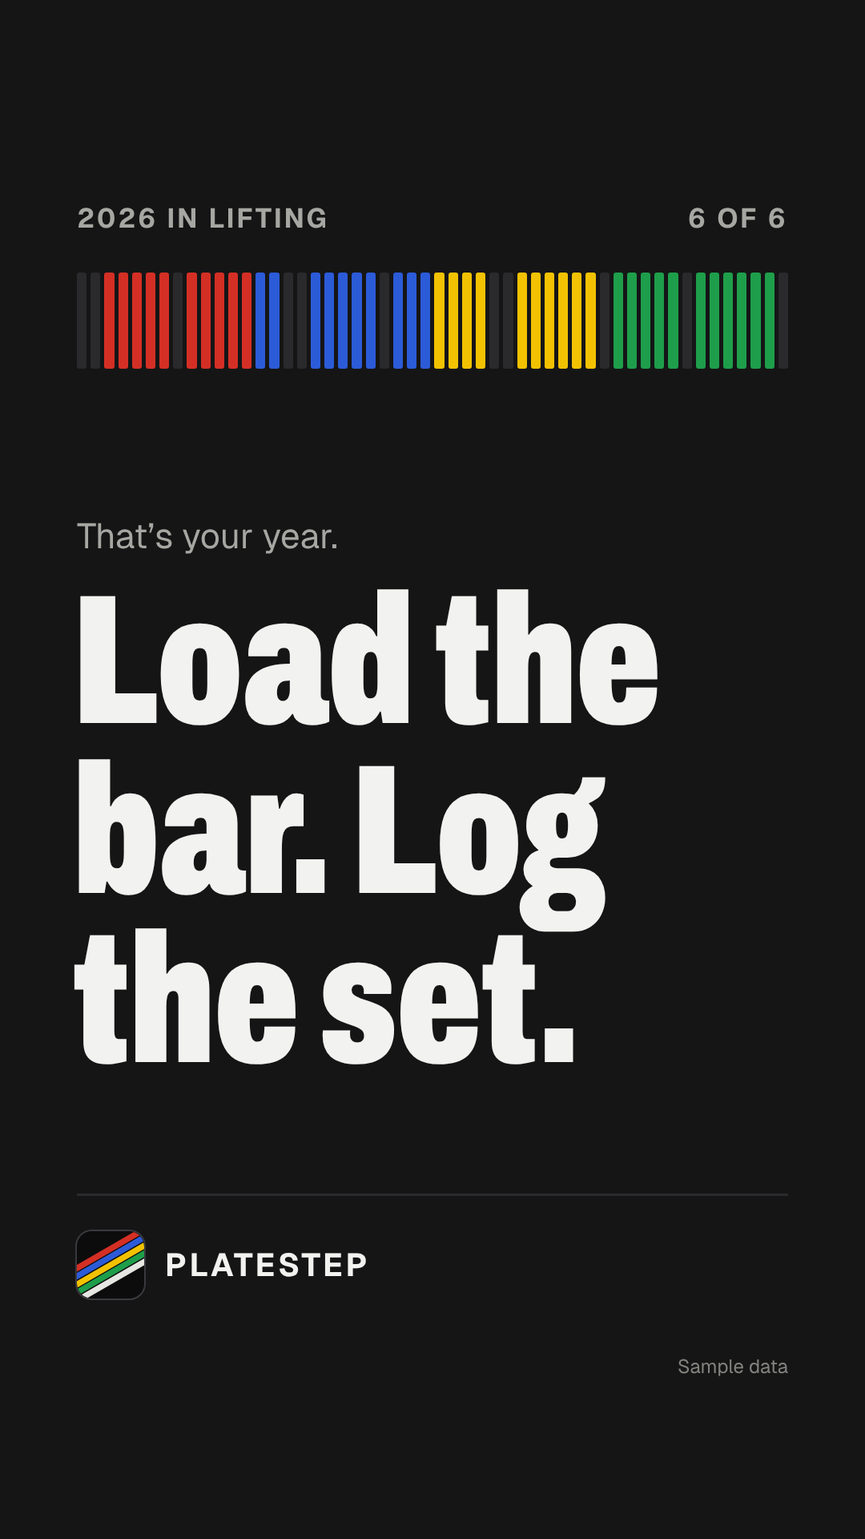
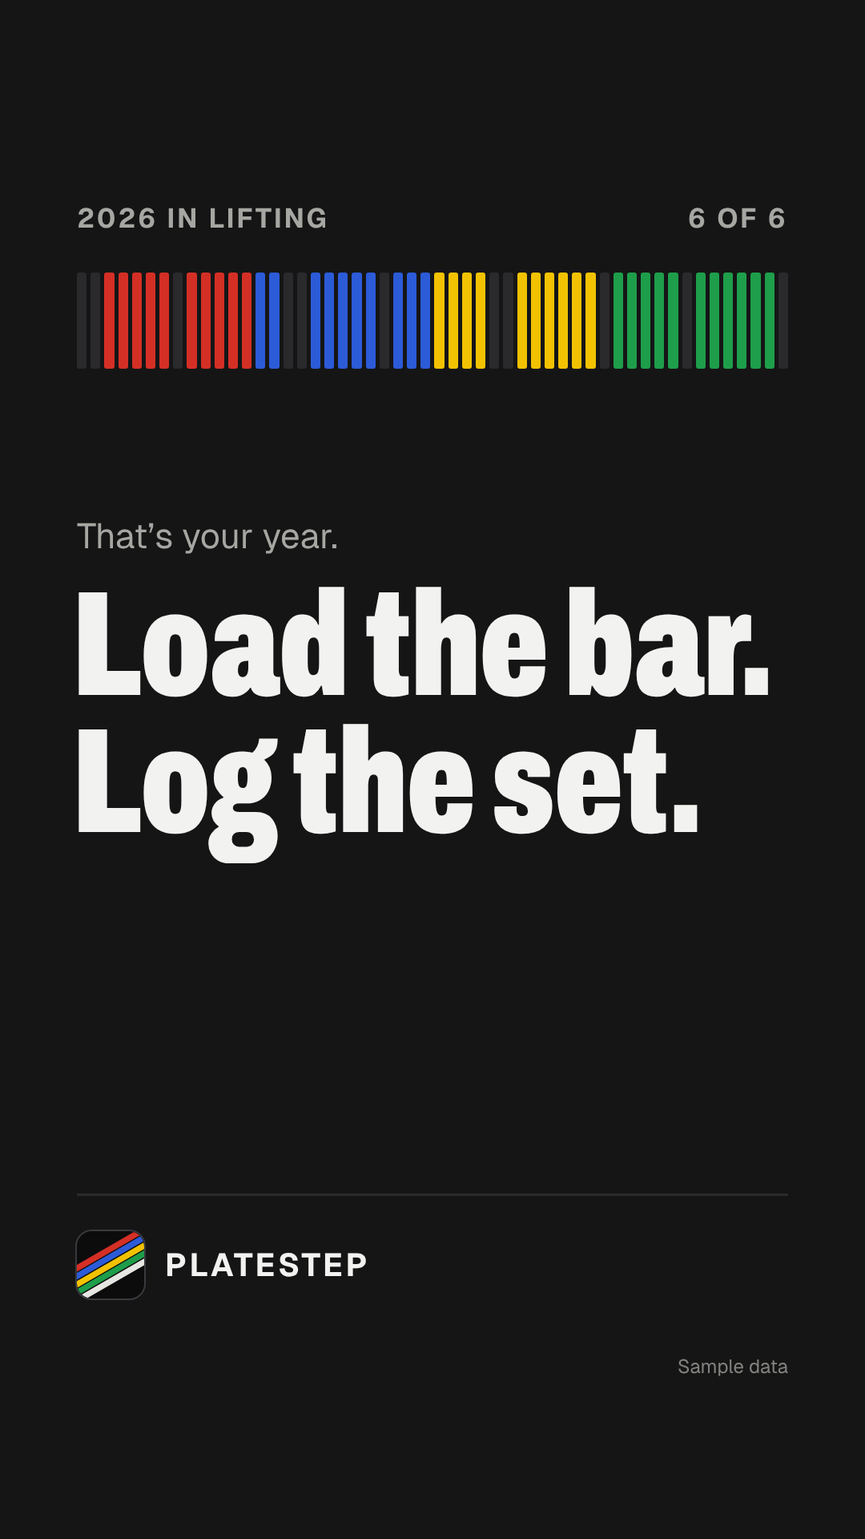
Planning: slogan round 2, Plate + Step lines (planning/slogan.md §9)
Screens 17 name-built lines (web and trademark search, iTunes Search API,
echoes, fit) and scores each from a brand-and-growth angle and a
social-and-content angle. Recommends "Plate by plate, step by step." with
"Earn the next plate, step by step." as runner-up; #PlateByPlate as the
hashtag. Round-2 mock-ups (r2-*.png) via render.js 2. Docs and dev tooling
only; no app code changes.

Claude-Session: https://claude.ai/code/session_012YZbMm45kyEePSqKXaJzSN

Changed region(s): [[0.0611, 0.375, 0.8861, 0.7188]]

diff --git a/tools/design/slogan/render.js b/tools/design/slogan/render.js
@@ -3,19 +3,32 @@
 // end card, social profile header) for each of the three shortlisted slogans, a contact sheet of all nine, and a
 // fit table for every candidate: its width as tracked caps on the bib's event band (Geist 700, 31 px, .09em, the
 // c-card band style) and its line count at the end card's 230 px Archivo condensed size.
-// Run: node tools/design/slogan/render.js
+// Run: node tools/design/slogan/render.js      (round 1: renders/*.png, fit.json, contact-sheet.png)
+//      node tools/design/slogan/render.js 2    (round 2, the Plate + Step lines: renders/r2-*.png, r2-fit.json,
+//                                               r2-contact-sheet.png)
 const fs = require('fs');
 const path = require('path');
 const { chromium } = require('playwright');
 
 const D = __dirname, R = path.join(D, 'renders');
-const CANDIDATES = [
+const ROUND = process.argv[2] === '2' ? 2 : 1;
+const PRE = ROUND === 2 ? 'r2-' : '';
+const CANDIDATES_R2 = [
+  'One step to the next plate.', 'The next plate is one step away.', 'Step up to the next plate.',
+  'One step closer to the next plate.', 'Step up a plate.', 'One step. One plate.', 'Small steps. Heavy plates.',
+  'Step by step. Plate by plate.', 'Every step adds a plate.', 'Every rep a step. Every step a plate.', 'Stack the steps.',
+  'Your next step, already planned.', 'We’ll plan the steps. You lift the plates.',
+  'Step by step to the next plate.', 'Next step: the next plate.', 'Plate by plate, step by step.',
+  'Earn the next plate, step by step.',
+];
+const CANDIDATES_R1 = [
   'Know what to lift next.', 'Your next set, already planned.', 'The plan and the log, in one.', 'Every set has a target.',
   'A plan for every lifter.', 'Every lifter deserves a plan.', 'Lift with a plan.', 'Learn the lift. Log the work.',
   'Earn the next plate.', 'One plate at a time.', 'Every plate, earned.', 'Stronger, one plate at a time.',
   'Load the bar. Log the set.', 'Less guessing. More lifting.', 'Rack it. Log it.', 'Just lift. We’ll do the math.',
   'Plate by plate.', 'Next plate, please.', 'Lift. Tap. Next.', 'Show up. We’ll do the math.',
 ];
+const CANDIDATES = ROUND === 2 ? CANDIDATES_R2 : CANDIDATES_R1;
 const SHOTS = [
   ['hero.html', 'hero', { width: 1280, height: 800 }, 1],
   ['year-end.html', 'year-end', { width: 1080, height: 1920 }, 1],
@@ -28,11 +41,11 @@ const SHOTS = [
   for (const [file, out, viewport, dpr] of SHOTS) for (const s of [1, 2, 3]) {
     const ctx = await browser.newContext({ viewport, deviceScaleFactor: dpr, colorScheme: 'dark' });
     const page = await ctx.newPage();
-    await page.goto('file://' + path.join(D, file) + '?s=' + s);
+    await page.goto('file://' + path.join(D, file) + '?r=' + ROUND + '&s=' + s);
     await page.evaluate(() => document.fonts.ready);
     const fonts = await page.evaluate(() => [...new Set([...document.fonts].filter(f => f.status === 'loaded').map(f => f.family))].join(', '));
-    await page.screenshot({ path: path.join(R, `${out}-${s}.png`) });
-    console.log(`renders/${out}-${s}.png fonts: ${fonts || 'NONE'}`);
+    await page.screenshot({ path: path.join(R, `${PRE}${out}-${s}.png`) });
+    console.log(`renders/${PRE}${out}-${s}.png fonts: ${fonts || 'NONE'}`);
     await ctx.close();
   }
 
@@ -55,23 +68,25 @@ const SHOTS = [
     band.remove(); end.remove();
     return r;
   }), CANDIDATES);
-  fs.writeFileSync(path.join(R, 'fit.json'), JSON.stringify(fit, null, 2) + '\n');
-  for (const f of fit) console.log(`${f.slogan.padEnd(34)} chars ${String(f.chars).padStart(2)}  band ${String(f.bandPx).padStart(4)}px ${f.bandPx <= 734 ? 'fits' : 'OVER'}  end-card lines ${f.endLines}`);
+  fs.writeFileSync(path.join(R, PRE + 'fit.json'), JSON.stringify(fit, null, 2) + '\n');
+  for (const f of fit) console.log(`${f.slogan.padEnd(44)} chars ${String(f.chars).padStart(2)}  band ${String(f.bandPx).padStart(4)}px ${f.bandPx <= 734 ? 'fits' : 'OVER'}  end-card lines ${f.endLines}`);
   await ctx.close();
 
   // Contact sheet: one column per slogan; hero on top, end card and profile below.
-  const col = (s, name) => `<div class="c"><p>${s}. ${name}</p><img class="h" src="hero-${s}.png">`
-    + `<div class="r"><img class="y" src="year-end-${s}.png"><img class="p" src="profile-${s}.png"></div></div>`;
-  const names = ['Earn the next plate.', 'A plan for every lifter.', 'Load the bar. Log the set.'];
-  fs.writeFileSync(path.join(R, 'contact.html'), `<!doctype html><meta charset="utf-8"><style>
+  const col = (s, name) => `<div class="c"><p>${s}. ${name}</p><img class="h" src="${PRE}hero-${s}.png">`
+    + `<div class="r"><img class="y" src="${PRE}year-end-${s}.png"><img class="p" src="${PRE}profile-${s}.png"></div></div>`;
+  const names = ROUND === 2
+    ? ['Plate by plate, step by step.', 'Earn the next plate, step by step.', 'One step to the next plate.']
+    : ['Earn the next plate.', 'A plan for every lifter.', 'Load the bar. Log the set.'];
+  fs.writeFileSync(path.join(R, PRE + 'contact.html'), `<!doctype html><meta charset="utf-8"><style>
     body{margin:0; background:#2A2A2D; font:600 22px system-ui,sans-serif; color:#F2F2F0; display:flex; gap:28px; padding:28px; width:max-content;}
     .c p{margin:0 0 12px} .h{width:600px; display:block} .r{display:flex; gap:20px; margin-top:20px; justify-content:center}
     .y{height:470px} .p{height:470px}</style>${names.map((n, i) => col(i + 1, n)).join('')}`);
   const sheet = await browser.newContext({ viewport: { width: 1960, height: 900 } });
   const sp = await sheet.newPage();
-  await sp.goto('file://' + path.join(R, 'contact.html'));
+  await sp.goto('file://' + path.join(R, PRE + 'contact.html'));
   await sp.waitForLoadState('load');
-  await sp.screenshot({ path: path.join(R, 'contact-sheet.png'), fullPage: true });
-  console.log('renders/contact-sheet.png');
+  await sp.screenshot({ path: path.join(R, PRE + 'contact-sheet.png'), fullPage: true });
+  console.log(`renders/${PRE}contact-sheet.png`);
   await browser.close();
 })();

diff --git a/tools/design/slogan/slogans.js b/tools/design/slogan/slogans.js
@@ -1,6 +1,12 @@
-// The three slogans the mock-ups compare (planning/slogan.md §3). ?s=1|2|3 picks one; the Sash tile is the v3.516 mark.
-window.SLOGANS = ['Earn the next plate.', 'A plan for every lifter.', 'Load the bar. Log the set.'];
-window.SLOGAN = window.SLOGANS[(Number(new URLSearchParams(location.search).get('s')) || 1) - 1];
+// The slogans the mock-ups compare (planning/slogan.md §3 for round 1, §9 for round 2). ?r=1|2 picks the round
+// (default 1), ?s=1|2|3 the slogan; the Sash tile is the v3.516 mark.
+window.ROUNDS = {
+  1: ['Earn the next plate.', 'A plan for every lifter.', 'Load the bar. Log the set.'],
+  2: ['Plate by plate, step by step.', 'Earn the next plate, step by step.', 'One step to the next plate.'],
+};
+{ const q = new URLSearchParams(location.search);
+  window.SLOGANS = window.ROUNDS[q.get('r') === '2' ? 2 : 1];
+  window.SLOGAN = window.SLOGANS[(Number(q.get('s')) || 1) - 1]; }
 window.SASH = '<svg class="sash" viewBox="0 0 24 24" aria-hidden="true"><defs><clipPath id="st"><rect width="24" height="24" rx="5.4"/></clipPath></defs>'
   + '<g clip-path="url(#st)"><rect width="24" height="24" fill="#0C0C0D"/><g transform="rotate(-30 12 12)">'
   + '<rect x="-10" y="6" width="44" height="2.1" fill="#D42F25"/><rect x="-10" y="8.5" width="44" height="2.1" fill="#2C5BD8"/>'

diff --git a/tools/design/slogan/hero.html b/tools/design/slogan/hero.html
@@ -5,6 +5,7 @@
 <title>Slogan mock-up: landing hero (1280×800)</title>
 <link rel="stylesheet" href="slogan.css">
 <script src="slogans.js"></script>
+<script>document.addEventListener('DOMContentLoaded', () => { if (window.SLOGAN.length > 24) document.querySelector('h1').classList.add('long'); });</script>
 <!-- planning/slogan.md §5 mock-up 1. The landing page hero (store/landing-page.md §2.1) with the slogan as the H1 and
      the promise as the sub, so the page still says "what to lift next" in words a search engine reads (the <title>
      and meta description keep it too). Day 1 plate ink behind the phone, near-black page. Sample data only. -->
@@ -15,6 +16,7 @@
   .eyebrow{display:flex; align-items:center; gap:14px; font-size:22px; font-weight:600;}
   .eyebrow .sash{width:40px; height:40px; box-shadow:0 0 0 1.5px #3A3A3E;}
   h1{font-size:132px; margin-top:44px; max-width:640px;}
+  h1.long{font-size:104px;}
   .sub{font-size:22px; line-height:1.45; color:var(--text-2); margin-top:30px; max-width:560px;}
   .sub b{color:var(--text); font-weight:600;}
   .facts{font-size:16px; color:var(--text-3); margin-top:20px; letter-spacing:.01em;}

diff --git a/tools/design/slogan/renders/r2-contact.html b/tools/design/slogan/renders/r2-contact.html
@@ -1,0 +1,4 @@
+<!doctype html><meta charset="utf-8"><style>
+    body{margin:0; background:#2A2A2D; font:600 22px system-ui,sans-serif; color:#F2F2F0; display:flex; gap:28px; padding:28px; width:max-content;}
+    .c p{margin:0 0 12px} .h{width:600px; display:block} .r{display:flex; gap:20px; margin-top:20px; justify-content:center}
+    .y{height:470px} .p{height:470px}</style><div class="c"><p>1. Plate by plate, step by step.</p><img class="h" src="r2-hero-1.png"><div class="r"><img class="y" src="r2-year-end-1.png"><img class="p" src="r2-profile-1.png"></div></div><div class="c"><p>2. Earn the next plate, step by step.</p><img class="h" src="r2-hero-2.png"><div class="r"><img class="y" src="r2-year-end-2.png"><img class="p" src="r2-profile-2.png"></div></div><div class="c"><p>3. One step to the next plate.</p><img class="h" src="r2-hero-3.png"><div class="r"><img class="y" src="r2-year-end-3.png"><img class="p" src="r2-profile-3.png"></div></div>

diff --git a/tools/design/slogan/year-end.html b/tools/design/slogan/year-end.html
@@ -30,6 +30,11 @@
 <div class="foot"><span data-sash></span><b>PLATESTEP</b></div>
 <p class="sample">Sample data</p>
 <script>
+  // Longer round-2 lines step the size down so the slogan stays within four lines above the foot rule.
+  document.addEventListener('DOMContentLoaded', () => {
+    const el = document.querySelector('.slogan');
+    if (window.SLOGAN.length > 24) el.style.fontSize = window.SLOGAN.length > 30 ? '168px' : '186px';
+  });
   // Sample year: 41 of 52 weeks trained, coloured by a repeating plate-ink rotation (the data hue, not decoration).
   const inks = ['#D42F25', '#2C5BD8', '#F2C200', '#1E9E4A'], off = new Set([0, 1, 7, 15, 16, 22, 30, 31, 38, 44, 51]);
   document.getElementById('strip').innerHTML = Array.from({length: 52}, (_, w) =>

diff --git a/planning/slogan.md b/planning/slogan.md
@@ -4,7 +4,7 @@ Owner: marketing-manager. Written 2026-11-23 against live **v3.645** (`APP_NAME 
 
 **Nothing here is a legal clearance.** Every screen below is a web search, plus Apple's iTunes Search API for the exact phrase in app titles and descriptions (US store, 25 results). No USPTO, EUIPO or WIPO search was run. Counsel should knock out the chosen line before it's printed on anything paid for.
 
-**No backlog items yet.** The owner picks first; §7 sketches the items.
+**No backlog items yet.** The owner picks first; §7 sketches the items. **Round 2 (§9)** adds the Plate + Step lines the owner asked for and changes the recommendation to **"Plate by plate, step by step."**
 
 ---
 
@@ -214,9 +214,155 @@ What the renders show:
 
 ---
 
+## 9. Round 2: lines built on the name (Plate + Step)
+
+The owner liked round 1 but wanted a line built on the name, as in "One step to the next plate". The coordinator brainstormed 12 more; marketing added 4 (14 to 17). Each is judged from two angles, because the owner asked for the marketing manager and the social media manager to pick together, and this file covers both jobs.
+
+### 9.1 The screen (2026-11-23, same method as §2)
+
+- **Web search, exact phrase,** for all 17, with trademark aggregators in the results. **No exact-phrase use was found for any of them** in fitness branding or trademarks. The conflicts below come from the parts of each line, not the whole.
+- **iTunes Search API, exact phrase in titles and descriptions:** zero hits for all 17. The fragment "small steps" alone returned three apps: a habit tracker, a baby-footprint app and a running app.
+- **Fit**, measured with `node tools/design/slogan/render.js 2` (results in `renders/r2-fit.json`):
+  - **Subtitle:** Apple's limit is 30 characters.
+  - **Bib band:** the 734 px rule from §2 applies. The band is already full, so no line goes on the bib; only "We'll plan the steps. You lift the plates." is too wide even on its own (818 px).
+  - **End card:** line count at 230 px. The mock-up steps the size down for longer lines.
+  - **Bio:** every line fits 150 characters together with the two promise lines.
+
+**Conflicts and echoes found:**
+
+| # | Line | Conflict |
+|---|---|---|
+| 3 | Step up to the next plate. | It's the baseball idiom "step up to the plate" with one word added. That helps recall but can't be owned. "Step-up plate" is also rack hardware sold by Synergee and Powertec, and a step-up is an exercise |
+| 4 | One step closer to the next plate. | "One Step Closer" is a well-known Linkin Park song title |
+| 5 | Step up a plate. | It reads as an exercise (a step-up on a plate) or as the rack attachment, the same problem that ruled out Platerise in naming.md |
+| 7 | Small steps. Heavy plates. | "Small steps" is crowded: SMALL STEPS THAT LEAD TO BIG RESULTS (registered, no. 5065215), THE POWER OF SMALL STEPS (owned by a fitness institute, for education services), SMALL STEPS = BIG CHANGES (filed 2024, wellness coaching), and a "Small Steps" step-count app |
+| 11 | Stack the steps. | StepStack is a UK step-count app that turns steps into coins, and STEPSAPP is a step-tracking mark. "Steps" alone reads as step counts, the risk naming.md §3.1 warned about |
+| 13 | We'll plan the steps. You lift the plates. | It echoes Kodak's "You press the button, we do the rest". It's also 42 characters, too wide for the band, and twice the word target |
+| 9, 10 | Every step adds a plate. / Every rep a step. Every step a plate. | **Untrue.** Not every session adds weight: progression holds, drops the weight or suggests an easier week. This is a results claim the code contradicts |
+| 2 | The next plate is one step away. | It promises how close the next plate is. Under the progression rules it is usually two sessions or more away |
+| 8, 16 | Step by step. Plate by plate. / Plate by plate, step by step. | No conflict found. Both halves are idioms, so the line can't be registered as a mark on its own. Next to the name it is distinctive. "Plate by plate" alone could read as cooking. The searches found no cookbook or restaurant with that title, and `#platebyplate` turned up no indexed use, though the networks themselves weren't searched |
+
+### 9.2 Scores
+
+Each criterion is scored 1 to 5.
+
+**(a) Brand and growth, out of 25:**
+- **R:** does it bring the name to mind (both "plate" and "step")?
+- **O:** can we own it (clean screen, distinctive)?
+- **L:** does it read as lifting, not food or step counts?
+- **H:** is it honest, with no results claim?
+- **M:** does it fit the mission (guidance for the people who need it) and support Plus?
+
+**(b) Social and content, out of 20:**
+- **T:** does it work as a hashtag or a recurring series?
+- **B:** does it work as a bio line?
+- **C:** does it work as the caption hook on a set video?
+- **S:** is it chantable and shareable?
+
+**Top 8.** Round 1's pick is included as the benchmark; it isn't a round-2 line.
+
+| Rank | Line | Chars | R | O | L | H | M | **(a)** | T | B | C | S | **(b)** | **Total /45** |
+|---|---|---|---|---|---|---|---|---|---|---|---|---|---|---|
+| 1 | **Plate by plate, step by step.** (16, marketing) | 28 | 5 | 3 | 4 | 5 | 4 | **21** | 5 | 5 | 4 | 5 | **19** | **40** |
+| (benchmark) | Earn the next plate. (round 1) | 20 | 3 | 5 | 5 | 5 | 3 | 21 | 5 | 5 | 5 | 4 | 19 | 40 |
+| 2 | **Earn the next plate, step by step.** (17, marketing) | 33 | 5 | 4 | 5 | 5 | 4 | **23** | 4 | 4 | 5 | 3 | **16** | **39** |
+| 3 | Step by step. Plate by plate. (8) | 29 | 5 | 3 | 3 | 5 | 4 | 20 | 4 | 4 | 4 | 5 | 17 | 37 |
+| 4 | Step by step to the next plate. (14, marketing) | 30 | 5 | 4 | 4 | 5 | 4 | 22 | 3 | 4 | 4 | 3 | 14 | 36 |
+| 5 | One step to the next plate. (1, the owner's) | 26 | 5 | 4 | 4 | 3 | 4 | 20 | 3 | 5 | 4 | 3 | 15 | 35 |
+| 6 | One step. One plate. (6) | 20 | 5 | 4 | 3 | 3 | 2 | 17 | 4 | 4 | 4 | 5 | 17 | 34 |
+| 7 | We'll plan the steps. You lift the plates. (13) | 42 | 5 | 3 | 5 | 5 | 5 | 23 | 1 | 4 | 3 | 2 | 10 | 33 |
+| 8 | Step up to the next plate. (3) | 26 | 5 | 2 | 3 | 4 | 3 | 17 | 3 | 4 | 4 | 4 | 15 | 32 |
+
+Line 13 ranks 7th on its brand score, but it can't be the slogan: it's 42 characters and echoes Kodak. Use it in long copy, such as a landing-page section or a launch post.
+
+**The rest:**
+
+| Line | (a) | (b) | Total | Main reason it ranks lower |
+|---|---|---|---|---|
+| One step closer to the next plate. (4) | 20 | 11 | 31 | The Linkin Park echo; 34 characters |
+| Small steps. Heavy plates. (7) | 16 | 15 | 31 | The "small steps" marks; "heavy" hints at an outcome |
+| Step up a plate. (5) | 16 | 13 | 29 | Reads as an exercise or rack hardware |
+| The next plate is one step away. (2) | 18 | 10 | 28 | Promises how close the next plate is |
+| Every step adds a plate. (9) | 15 | 12 | 27 | Untrue in code |
+| Your next step, already planned. (12) | 17 | 9 | 26 | No plate; a generic "next step" |
+| Every rep a step. Every step a plate. (10) | 14 | 12 | 26 | Untrue; 37 characters |
+| Stack the steps. (11) | 13 | 12 | 25 | Reads as step counts; StepStack |
+| Next step: the next plate. (15, marketing) | 19 | 12 | 31 | Clear, but flat as a hashtag or chant |
+
+**About the owner's line, "One step to the next plate."** It's the clearest name line on the list and a good bio line. It scores lower only on honesty: "one step" sounds like the next plate is a session away, and the rules usually take two or more. "Step by step to the next plate." (14) keeps his idea and fixes that word.
+
+### 9.3 Recommendation
+
+**Winner: "Plate by plate, step by step."** (28 characters)
+- **(a) Brand and growth:**
+  - It says both halves of the name, plate first, as marketing.md §2.1 requires ("lead with the plate, never with step"). Anyone who hears the slogan can rebuild the name.
+  - It promises nothing about results. It describes patience, which is the honest truth about progressive overload and suits beginners who need guidance.
+  - Its weakness is ownability: two idioms can't be registered as a mark. Next to the name and the Sash it still reads as ours.
+  - The food reading of "plate by plate" disappears beside the bar, the bib and the word "step".
+  - It fits Plus without overselling it: the free app gives the steps, and Plus adds coaching notes on top.
+- **(b) Social and content:**
+  - It's the most chantable line on the list.
+  - **`#PlateByPlate`** is short and works as a series: "Plate by plate, week 3", a creator's 12-week log, or a December recap.
+  - It fits a bio in one line, and as a set-video caption it turns any increment into a story ("+5 lb. Plate by plate.").
+
+**Runner-up: "Earn the next plate, step by step."** (33 characters)
+- **(a) Brand and growth:**
+  - It scores highest on brand (23/25). It keeps round 1's honest, true-in-code rule ("earn") and adds the name.
+  - Of the strong lines it is the clearest about lifting: "earn the next plate" can only mean the bar.
+- **(b) Social and content:**
+  - It's weaker, because it's long: 33 characters, five lines on the end card at full size, and a hashtag that's too long to chant.
+  - It is the best caption hook for the moment the app says "add weight next time".
+- **How to use it:** keep `#EarnTheNextPlate` as the caption sign-off for exactly those progression posts, alongside the main hashtag.
+
+**Placement is unchanged from §4.** Only the line changes. The store subtitle stays "Tells you what to lift next". The winner and runner-up are both too long to replace the subtitle well anyway (28 characters fits Apple's 30 but carries no search word).
+
+**Social bio (Instagram, Threads, X; 145 of 150 characters):**
+
+```
+Plate by plate, step by step.
+A free strength tracker that tells you what to lift next.
+Programs that progress with you. One-tap logging. No ads.
+```
+
+**TikTok (78 of 80 characters):**
+
+```
+Plate by plate, step by step. A free tracker that tells you what to lift next.
+```
+
+**Hashtags:** `#PlateByPlate` is the brand tag and the series. `#EarnTheNextPlate` is the sign-off on progression posts. Before launch, check both on Instagram and TikTok in the apps themselves; web search doesn't index hashtags. Don't use a tag someone else's community already owns.
+
+**Email signature:** `Platestep · Plate by plate, step by step.`
+
+### 9.4 Mock-ups (round 2)
+
+These show the top three by what they offer, not strictly by score:
+1. the winner (16);
+2. the runner-up (17);
+3. the owner's own line (1), so he can see it beside the others.
+
+Line 8 ranks third by score but is line 16 with its halves swapped, so a render of it would show nothing new.
+
+- **Files:** `tools/design/slogan/renders/r2-*.png` and `r2-contact-sheet.png`.
+- **Rendering:** run `node tools/design/slogan/render.js 2`. The pages take `?r=2&s=1|2|3`.
+- **Size steps:** lines over 24 characters step down to 104 px in the hero. On the end card, lines over 24 characters drop to 186 px and lines over 30 drop to 168 px.
+- **Round 1 change:** the round-1 render of "Load the bar. Log the set." now uses the smaller hero size too. That change is mine: the hero rule moved, and the round-1 wording is untouched.
+
+**What the renders show:**
+- **The winner** sets in two even lines on the hero and three on the end card. Its rhythm carries without the sub.
+- **The runner-up** needs three lines on the hero and still feels long.
+- **The owner's line** sets cleanly in two lines. On the Year in Lifting end card ("That's your year. One step to the next plate.") it reads well, but it implies next year is one step away.
+
+### 9.5 Proposed items, updated
+
+MKT-21 (the footer line) and MKT-22 (the Year in Lifting end card) in §7 are unchanged; only the text of `APP_SLOGAN` changes. They still wait for the owner's pick.
+
+---
+
 ## Sources (searched 2026-11-23)
 
 - Echoes found: [Gym Gym: Gym Workout Tracker ("Rack, log, next set.")](https://apps.apple.com/app/id6446095965); [Just Lift Fitness LLC trademarks](https://trademarks.justia.com/owners/just-lift-fitness-llc-5852559); [JUST LIFT BY JUSTIN](https://trademarks.justia.com/908/54/just-lift-by-90854570.html); [Just Lift Be Fit (App Store)](https://apps.apple.com/us/app/-/id6747419034); [LESS ATTITUDE. MORE FITNESS. (trademark)](https://trademarks.justia.com/883/08/less-attitude-more-88308361.html); [Gym Reapers, "Earned, Not Given"](https://uk.gymreapers.com/blogs/news/earned-not-given); [Freeletics, "Earned. Not given."](https://www.freeletics.com/en/blog/posts/earned-not-given/); [Earned Not Given program (TrainHeroic)](https://marketplace.trainheroic.com/workout-plan/program/rogers-program-1623963683); [Learn to Lift (Playbook)](https://my.playbookapp.io/ashley-weingart/programs/learn-to-lift/35684); [Lift - Rest - Repeat (Product Hunt)](https://www.producthunt.com/products/lift-rest-repeat/alternatives); [NextLift: Barbell Tracker](https://apps.apple.com/au/app/id6780114731); [Gymshark "We Do Gym" (The Drum)](https://thedrum.com/news/2024/06/18/crack-the-us-gymshark-tones-up-positioning-with-singular-message-we-do-gym).
 - "One plate at a time" in food use: [restaurant slogans (Eat App)](https://restaurant.eatapp.co/blog/restaurant-slogans); the iTunes Search API result "Plate: Meal Recipes for One".
+- Round 2: [SMALL STEPS THAT LEAD TO BIG RESULTS (trademark)](https://trademarks.justia.com/866/40/small-steps-that-lead-to-big-86640349.html); [Institute for Fitness & Health, Inc. trademarks (THE POWER OF SMALL STEPS)](https://trademark.justia.com/owners/institute-for-fitness-health-inc-3201032); [SMALL STEPS = BIG CHANGES, LLC](https://trademark.justia.com/owners/small-steps-big-changes-llc-5844630); [Small Steps (App Store)](https://apps.apple.com/si/app/small-steps/id6445825563); [StepStack (App Store)](https://apps.apple.com/gb/app/stepstack/id1611345028); [STEPSAPP (trademark)](https://trademarks.justia.com/792/01/stepsapp-79201044.html); [Synergee step-up plate](https://www.living.fit/products/synergee-pull-up-step-up-plate); [Powertec step-up plate attachment](https://www.topfitness.com/products/powertec-step-up-plate-attachment). Linkin Park's "One Step Closer" and Kodak's "You press the button, we do the rest" are general knowledge, not searched.
 - No exact-phrase use found for: "earn the next plate", "a plan for every lifter", "every lifter deserves a plan", "load the bar" with "log the set", "your next set, already planned", "plate by plate" as a fitness brand, "show up" with "we'll do the math", "stronger one plate at a time".
 - Store rules: [App Store Connect Help, "App information"](https://developer.apple.com/help/app-store-connect/reference/app-information/app-information) (subtitle 30 characters), Apple guideline 2.3.7 (no prices in subtitles), as already cited in `store/app-store.md`.
